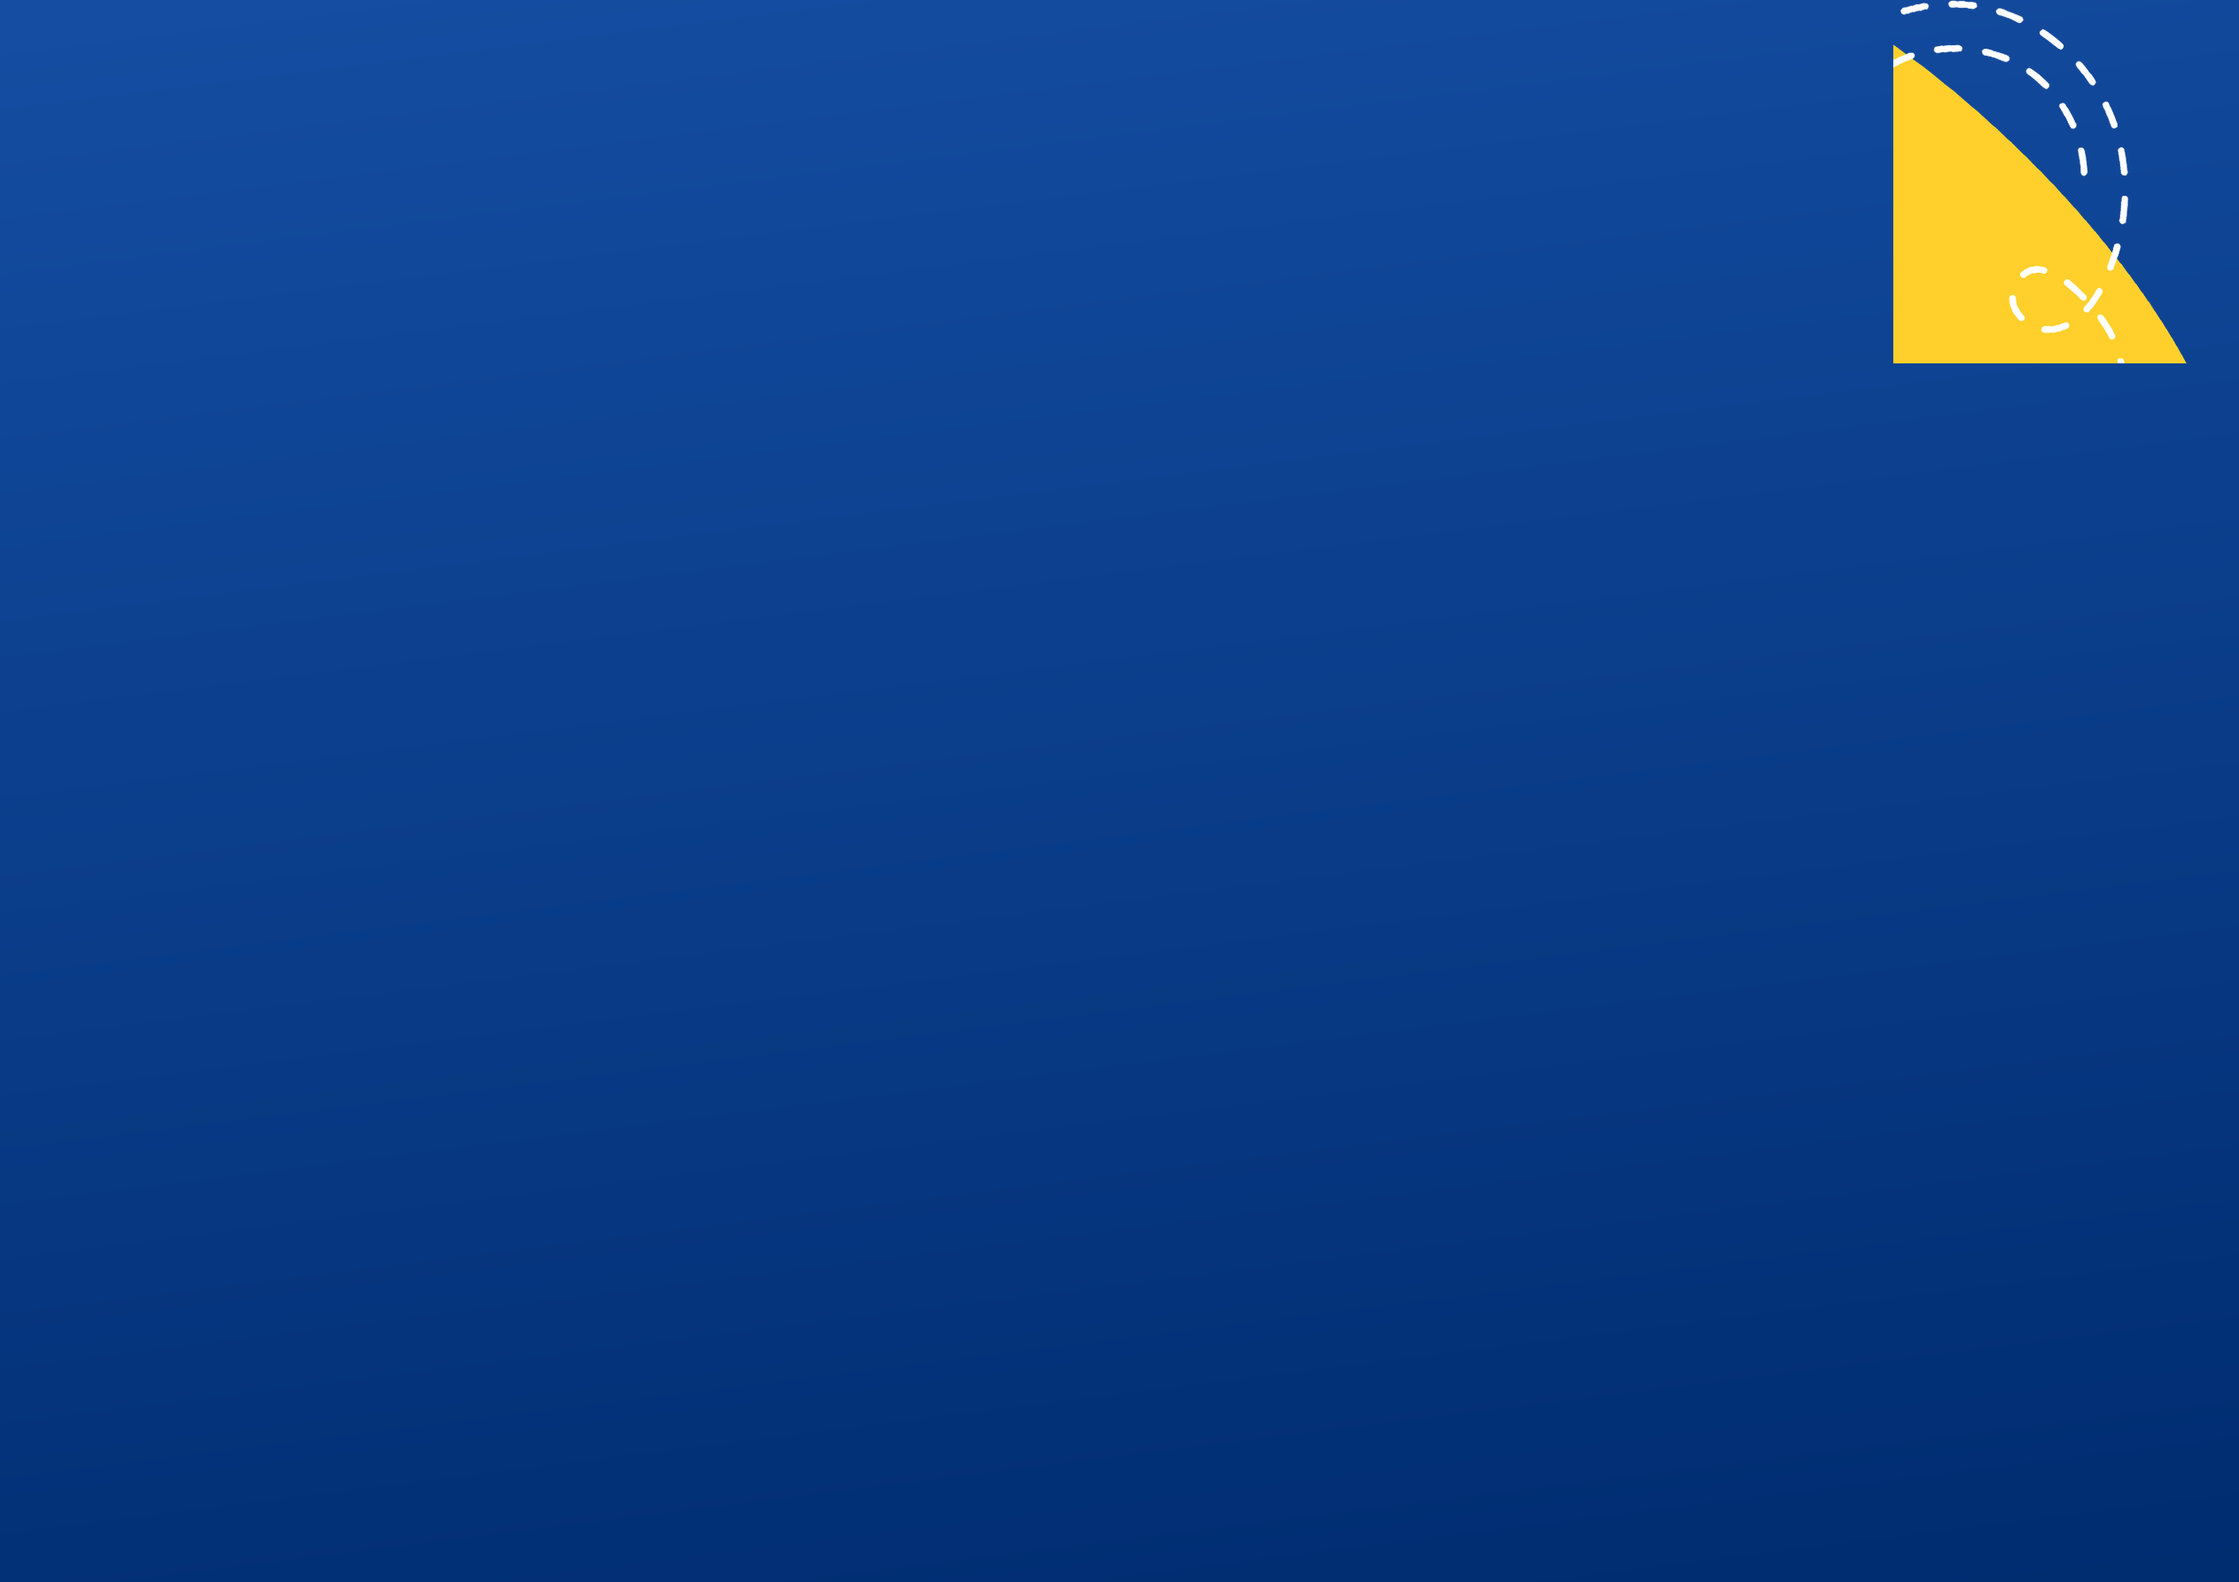
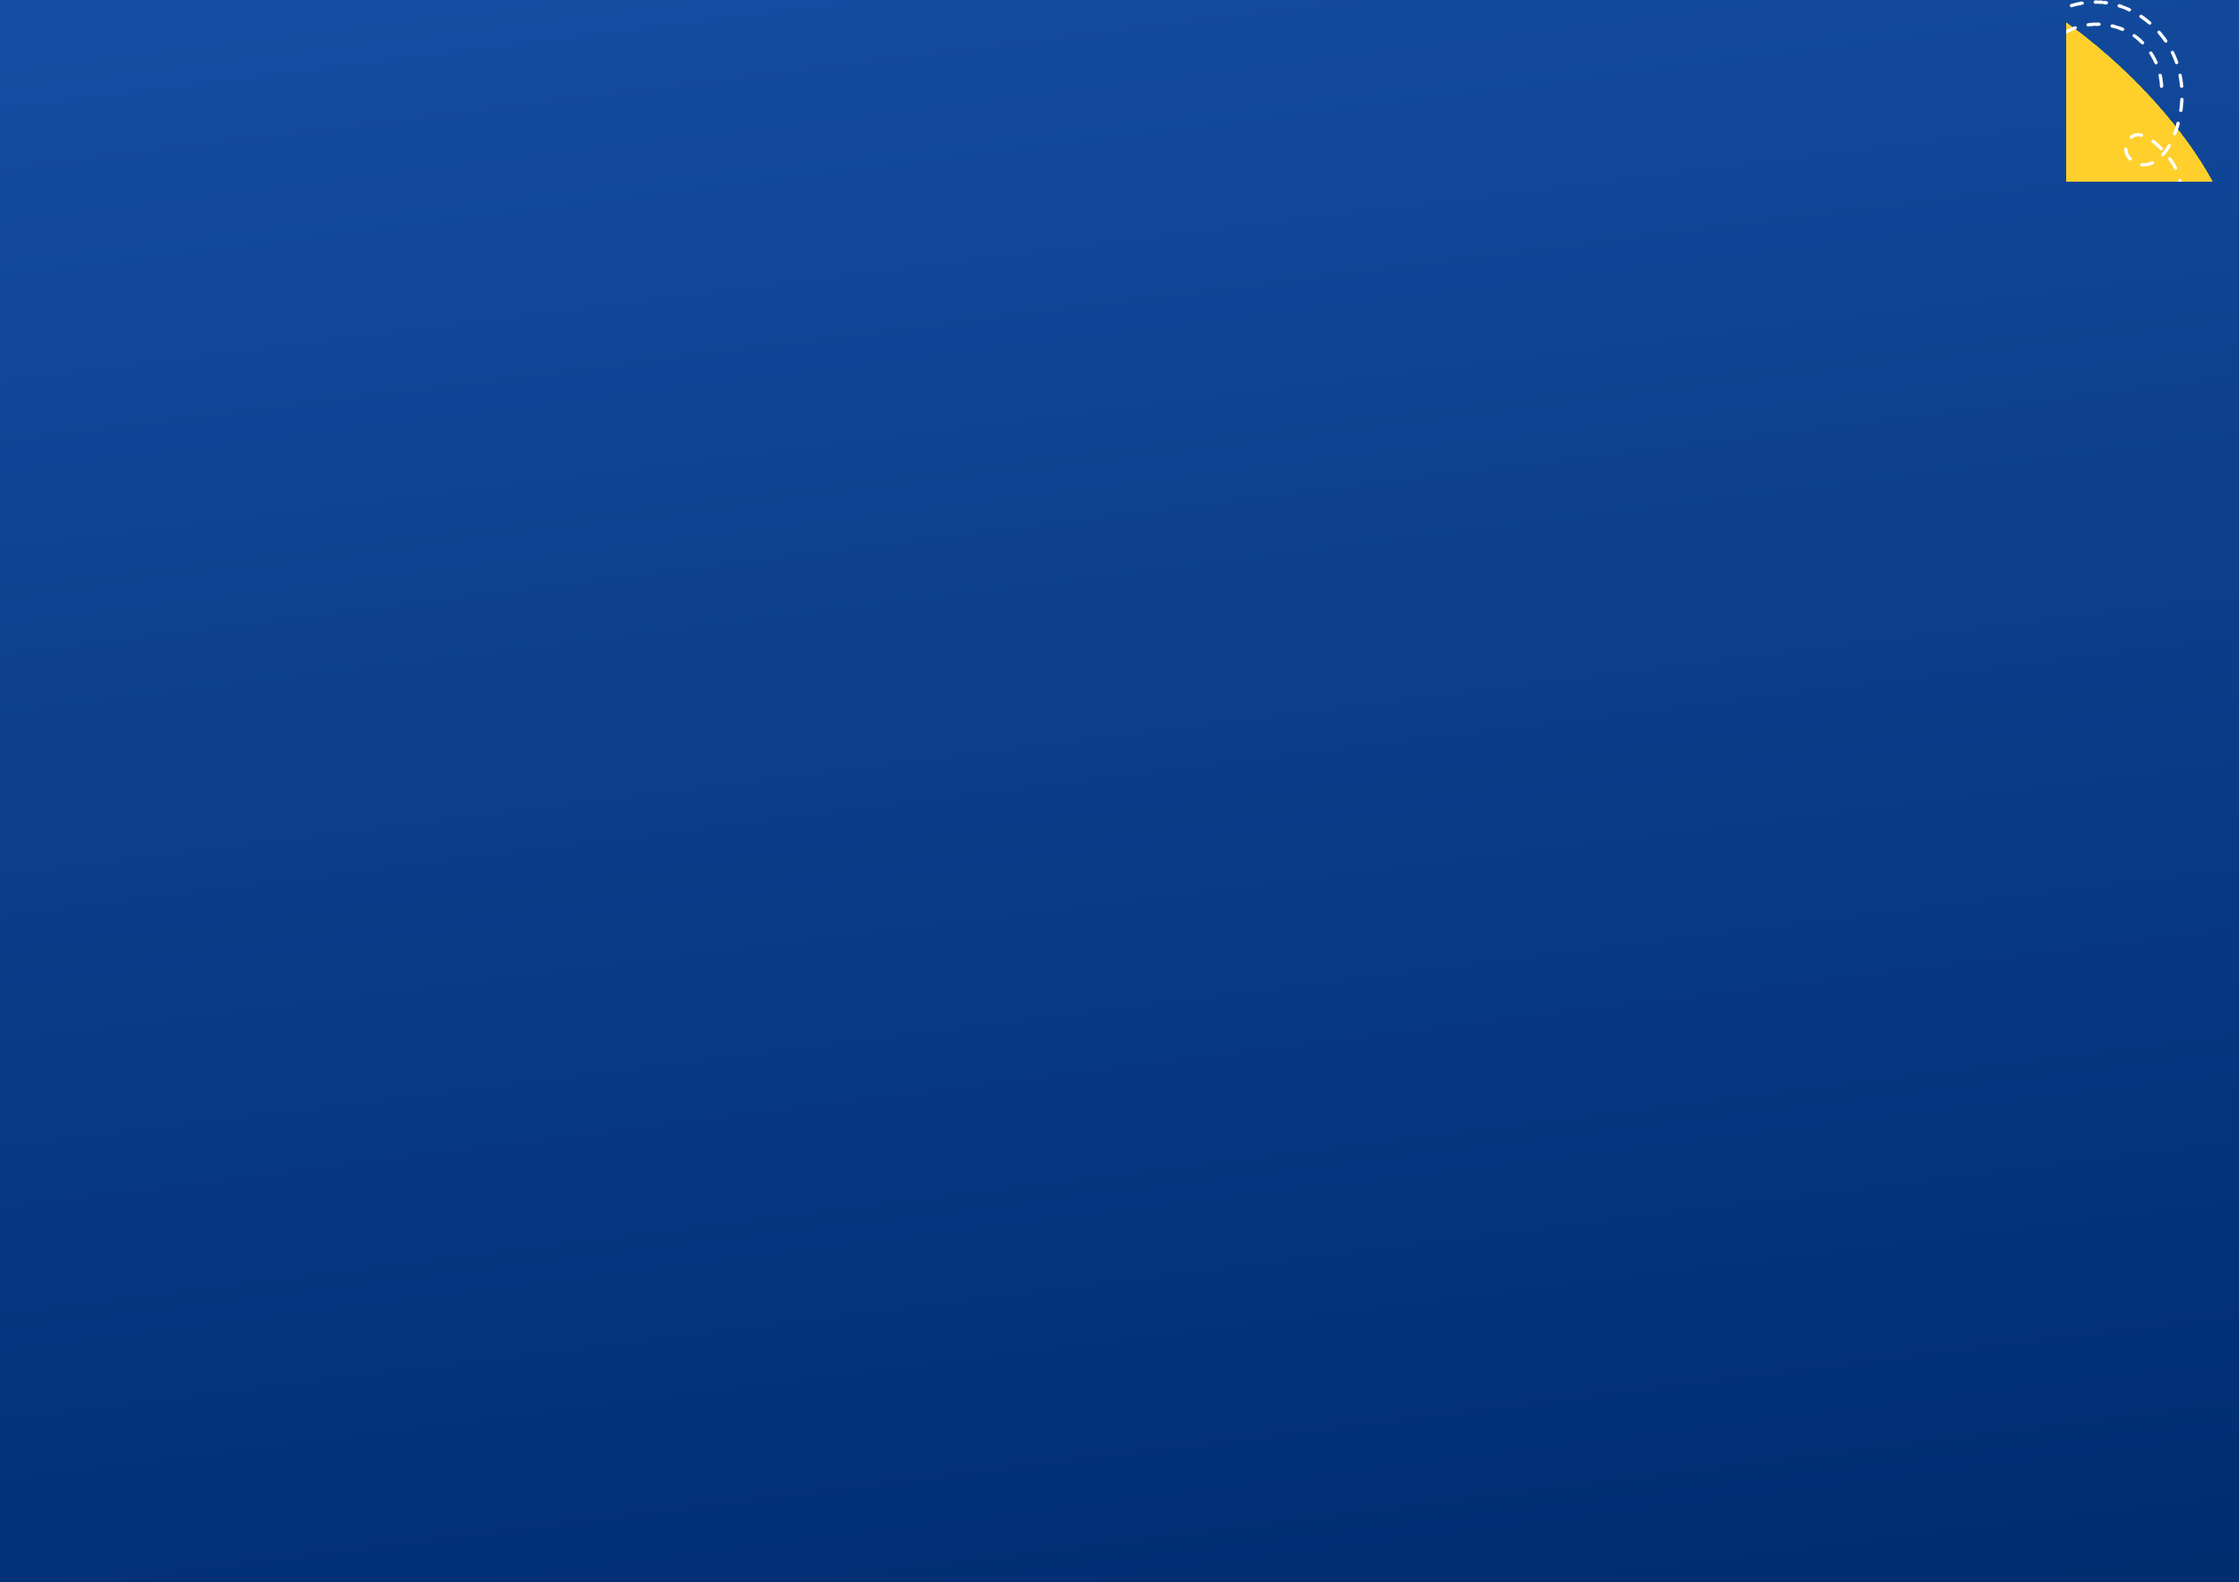
Corrige emenda branca na borda + Cardápio volta a caber 1 página por público
Dois achados reais, testando os próprios PDFs em alta resolução e com
conteúdo denso de verdade (mandado pelo dono):

1) Emenda branca de ~1pt na borda direita do calendário E do cardápio —
   a imagem de fundo desenhada do tamanho exato da página (0,0 até
   PAGE_W,PAGE_H) não fechava 100% até a borda por arredondamento da matriz
   de transformação, deixando a página branca por baixo aparecer numa
   frestinha. Só aparecia em alta resolução (150dpi não mostrava, 300dpi
   sim) — por isso passou batido antes. Corrigido com 1pt de sangria pra
   cada lado nos dois geradores.

2) Cardápio com conteúdo cheio (Almoço/Lanche com várias linhas) voltou a
   quebrar em mais de 1 página por público — o cabeçalho grande estilo
   pôster (igual ao calendário) deixava menos altura pra tabela do que o
   formato antigo tinha. Cabeçalho, rodapé e decoração do fundo (nova versão
   do PNG, mais compacta) enxutos; fonte da tabela e altura de linha um
   pouco menores; label+horário da refeição passam a ficar lado a lado
   (eram 2 linhas empilhadas, sempre reservando essa altura mesmo pra
   refeição de 1 item só, tipo "Fruta da estação" — a maioria dos casos
   reais). Testado com o conteúdo denso do PDF real que o dono mandou
   (Maternal e Pré-escola, Agosto/2026): volta a caber numa página só.

Claude-Session: https://claude.ai/code/session_01CfbiiugnyVJt9YQ2kULm1F

Changed region(s): [[0.8337, 0.0, 0.9881, 0.2465]]

diff --git a/lib/gerarCardapioPdf.ts b/lib/gerarCardapioPdf.ts
@@ -33,12 +33,18 @@ const HEADER_BLUE = rgb(0x29 / 255, 0xab / 255, 0xe2 / 255);
 const CARD_RADIUS = 10;
 const PAD_CARD = 14; // respiro entre a borda do cartão branco e o conteúdo
 
-const LABEL_COL_W = 108;
-const LINE_H = 9.5;
-const FONT_SIZE = 8.5;
-const PAD_X = 5;
-const PAD_Y = 4;
-const HEAD_ROW_H = 25;
+// Medidas apertadas de propósito (igual antes do redesenho): o pedido é
+// caber os 2 padrões de semana (1&3 e 2&4) de um público inteiro numa
+// página só — cada pt economizado aqui é o que decide isso. FONT_SIZE
+// menor que antes (8→8.5) reduz quantas células quebram linha sozinhas
+// dentro da coluna estreita, que é o que mais come espaço vertical com
+// cardápio de verdade (achado real testando com conteúdo denso).
+const LABEL_COL_W = 104;
+const LINE_H = 8.8;
+const FONT_SIZE = 8;
+const PAD_X = 4;
+const PAD_Y = 3;
+const HEAD_ROW_H = 22;
 
 const DIA_LABEL_PDF: Record<string, string> = {
   SEGUNDA: "Segunda",
@@ -174,32 +180,45 @@ export async function gerarCardapioPdf({
   let pagina!: PDFPage;
   let y = 0;
 
-  // A decoração amarela do fundo desce até ~137pt do topo — o cartão
-  // branco precisa começar ABAIXO disso (com folga), senão a borda
-  // arredondada do cartão deixa um pedaço triangular da decoração visível
-  // por baixo dele perto do canto (achado real testando o próprio PDF).
-  const CARD_TOPO = PAGE_H - 148;
-  const CARD_BASE = 76; // espaço reservado pro rodapé (ilustração + logo + crédito)
+  // O cardápio precisa de MUITO mais altura de tabela que o calendário (é
+  // conteúdo real denso — Almoço/Lanche chegam a 5-6 linhas por dia), então
+  // o cabeçalho/rodapé aqui são mais enxutos que os do pôster do calendário
+  // (achado real, set/2026: com o cabeçalho grande igual ao calendário, um
+  // público com cardápio cheio não cabia mais numa página só como antes).
+  // A decoração amarela do fundo (cardapio-fundo-completo.png, versão MENOR
+  // que a do calendário) desce até ~89pt do topo — o cartão branco começa
+  // depois disso com uma folga pequena, senão a borda arredondada do cartão
+  // deixa um pedaço triangular da decoração visível por baixo dele perto do
+  // canto (mesmo achado real de antes, só que agora com a decoração menor).
+  const CARD_TOPO = PAGE_H - 82;
+  const CARD_BASE = 54; // espaço reservado pro rodapé (ilustração + logo + crédito)
   const CARD_ALTURA = CARD_TOPO - CARD_BASE;
   const CARD_X = MARGIN;
   const CARD_W = PAGE_W - MARGIN * 2;
 
+  // Bug real (mesmo do calendário): imagem do tamanho exato da página deixa
+  // uma emenda branca de ~1pt na borda (a página por baixo é branca) —
+  // sangria de 1pt em cada lado evita.
+  const SANGRIA = 1;
+
   function desenharCabecalho(tituloPublico: string) {
     if (fundoCompleto) {
-      pagina.drawImage(fundoCompleto, { x: 0, y: 0, width: PAGE_W, height: PAGE_H });
+      pagina.drawImage(fundoCompleto, { x: -SANGRIA, y: -SANGRIA, width: PAGE_W + SANGRIA * 2, height: PAGE_H + SANGRIA * 2 });
     } else {
       pagina.drawRectangle({ x: 0, y: 0, width: PAGE_W, height: PAGE_H, color: NAVY });
     }
 
     // fonteTitulo (Poppins Bold) — mesma fonte de verdade do pôster
-    // original, igual ao calendário; não fonteBold (Helvetica).
+    // original, igual ao calendário; não fonteBold (Helvetica). Tamanho
+    // menor que no calendário (20 vs 40) — cabeçalho bem mais enxuto, pra
+    // sobrar altura pra tabela.
     const titulo = "CARDÁPIO";
-    const tituloTam = 28;
-    pagina.drawText(titulo, { x: MARGIN, y: PAGE_H - 42, size: tituloTam, font: fonteTitulo, color: YELLOW });
+    const tituloTam = 20;
+    pagina.drawText(titulo, { x: MARGIN, y: PAGE_H - 26, size: tituloTam, font: fonteTitulo, color: YELLOW });
     const subtitulo = `${mesLabel} ${ano} · ${tituloPublico}`;
-    pagina.drawText(subtitulo, { x: MARGIN, y: PAGE_H - 62, size: 13, font: fonteTitulo, color: WHITE });
+    pagina.drawText(subtitulo, { x: MARGIN, y: PAGE_H - 39, size: 10, font: fonteTitulo, color: WHITE });
     const geradoTexto = `Gerado em ${geradoEm}`;
-    pagina.drawText(geradoTexto, { x: MARGIN, y: PAGE_H - 78, size: 8, font: fonte, color: rgb(0.75, 0.8, 0.9) });
+    pagina.drawText(geradoTexto, { x: MARGIN, y: PAGE_H - 49, size: 7, font: fonte, color: rgb(0.75, 0.8, 0.9) });
 
     // Cartão branco arredondado — todo o conteúdo (tabela) desenha em cima
     // dele; altura fixa por página, igual à referência do calendário.
@@ -212,14 +231,14 @@ export async function gerarCardapioPdf({
   // estação) — no rodapé, ao lado da ilustração/logo, sobre o fundo navy.
   function desenharRodape(paginaLocal: PDFPage) {
     if (decoracaoRodape) {
-      const larguraAlvo = 68;
+      const larguraAlvo = 46;
       const alturaAlvo = (decoracaoRodape.height / decoracaoRodape.width) * larguraAlvo;
-      paginaLocal.drawImage(decoracaoRodape, { x: -8, y: -10, width: larguraAlvo, height: alturaAlvo });
+      paginaLocal.drawImage(decoracaoRodape, { x: -6, y: -8, width: larguraAlvo, height: alturaAlvo });
     }
     if (logo) {
-      const larguraAlvo = 82;
+      const larguraAlvo = 58;
       const alturaAlvo = (logo.height / logo.width) * larguraAlvo;
-      paginaLocal.drawImage(logo, { x: (PAGE_W - larguraAlvo) / 2, y: 16, width: larguraAlvo, height: alturaAlvo });
+      paginaLocal.drawImage(logo, { x: (PAGE_W - larguraAlvo) / 2, y: 8, width: larguraAlvo, height: alturaAlvo });
     }
     // Faixa própria ACIMA da ilustração/logo (não ao lado) — as observações
     // são frases completas, longas demais pra uma coluna estreita ao lado da
@@ -228,12 +247,12 @@ export async function gerarCardapioPdf({
     // largura inteira da página disponível.
     const credito = `Nutricionista: ${NUTRICIONISTA_CARDAPIO.nome} · ${NUTRICIONISTA_CARDAPIO.registro}`;
     const linhas = [credito, NUTRICIONISTA_CARDAPIO.observacoes[0], NUTRICIONISTA_CARDAPIO.observacoes[1]];
-    const tamanhos = [7.5, 6.5, 6.5];
+    const tamanhos = [7, 6, 6];
     const fontes = [fonteBold, fonte, fonte];
-    let yCredito = 68;
+    let yCredito = 46;
     linhas.forEach((linha, i) => {
-      paginaLocal.drawText(linha, { x: 96, y: yCredito, size: tamanhos[i], font: fontes[i], color: rgb(0.75, 0.8, 0.92) });
-      yCredito -= 10;
+      paginaLocal.drawText(linha, { x: 68, y: yCredito, size: tamanhos[i], font: fontes[i], color: rgb(0.75, 0.8, 0.92) });
+      yCredito -= 8.5;
     });
   }
 
@@ -249,14 +268,14 @@ export async function gerarCardapioPdf({
   function desenharCabecalhoTabela(dias: DiaCardapio[]) {
     const x0 = CARD_X + PAD_CARD;
     pagina.drawRectangle({ x: x0, y: y - HEAD_ROW_H, width: CARD_W - PAD_CARD * 2, height: HEAD_ROW_H, color: HEADER_BLUE });
-    pagina.drawText("REFEIÇÃO", { x: x0 + PAD_X, y: y - HEAD_ROW_H / 2 - 3, size: 7.5, font: fonteBold, color: WHITE });
+    pagina.drawText("REFEIÇÃO", { x: x0 + PAD_X, y: y - HEAD_ROW_H / 2 - 2.5, size: 7, font: fonteBold, color: WHITE });
     let x = x0 + LABEL_COL_W;
     for (const dia of dias) {
-      // As duas linhas (dia + datas) precisam de ~10pt de distância entre as
-      // bases pra não sobrepor — data no mesmo tamanho do dia, bem legível.
-      pagina.drawText((DIA_LABEL_PDF[dia.dia] ?? dia.dia).toUpperCase(), { x: x + PAD_X, y: y - 10, size: 8, font: fonteBold, color: WHITE });
+      // As duas linhas (dia + datas) precisam de ~9pt de distância entre as
+      // bases pra não sobrepor — data um pouco menor que o dia, ainda legível.
+      pagina.drawText((DIA_LABEL_PDF[dia.dia] ?? dia.dia).toUpperCase(), { x: x + PAD_X, y: y - 9, size: 7.5, font: fonteBold, color: WHITE });
       if (dia.datas.length > 0) {
-        pagina.drawText(dia.datas.join(" · "), { x: x + PAD_X, y: y - 20, size: 8, font: fonte, color: rgb(0.9, 0.95, 1) });
+        pagina.drawText(dia.datas.join(" · "), { x: x + PAD_X, y: y - 18, size: 7, font: fonte, color: rgb(0.9, 0.95, 1) });
       }
       x += colW;
     }
@@ -289,7 +308,12 @@ export async function gerarCardapioPdf({
         const ref = dia.refeicoes.find((r) => r.tipo === refBase.tipo);
         return quebrarLinhas(fonte, ref?.itens || "—", FONT_SIZE, colW - PAD_X * 2);
       });
-      const maxLinhas = Math.max(2, ...linhasPorDia.map((l) => l.length));
+      // 1 linha mínima, não 2: label + horário ficam lado a lado na mesma
+      // linha agora (não mais empilhados) — a maioria das refeições reais
+      // (lanche da manhã, lanche da tarde 1) é só "Fruta da estação" numa
+      // linha só, e forçar 2 linhas de altura pra essas desperdiçava um
+      // bocado de espaço que faz falta com cardápio cheio.
+      const maxLinhas = Math.max(1, ...linhasPorDia.map((l) => l.length));
       const alturaLinha = maxLinhas * LINE_H + PAD_Y * 2;
 
       if (y - alturaLinha < CARD_BASE + PAD_CARD) {
@@ -300,9 +324,17 @@ export async function gerarCardapioPdf({
       pagina.drawRectangle({ x: x0, y: y - alturaLinha, width: CARD_W - PAD_CARD * 2, height: alturaLinha, color: misturarComBranco(corHex, 0.06) });
       pagina.drawRectangle({ x: x0, y: y - alturaLinha, width: 2.5, height: alturaLinha, color: corSolida(corHex) });
 
-      pagina.drawText(linhaUnica(refBase.label), { x: x0 + PAD_X + 4, y: y - PAD_Y - 8, size: 8.5, font: fonteBold, color: BLACK });
+      const labelTexto = linhaUnica(refBase.label);
+      pagina.drawText(labelTexto, { x: x0 + PAD_X + 4, y: y - PAD_Y - 7, size: 8, font: fonteBold, color: BLACK });
       if (refBase.horario) {
-        pagina.drawText(linhaUnica(refBase.horario), { x: x0 + PAD_X + 4, y: y - PAD_Y - 8 - LINE_H, size: 7, font: fonte, color: TEXT2 });
+        const labelLargura = fonteBold.widthOfTextAtSize(labelTexto, 8);
+        pagina.drawText(`· ${linhaUnica(refBase.horario)}`, {
+          x: x0 + PAD_X + 4 + labelLargura + 3,
+          y: y - PAD_Y - 7,
+          size: 7,
+          font: fonte,
+          color: TEXT2,
+        });
       }
 
       let x = x0 + LABEL_COL_W;

diff --git a/lib/gerarCalendarioPdf.ts b/lib/gerarCalendarioPdf.ts
@@ -425,8 +425,15 @@ function desenharPagina(
   // não só do visualizador). Fundir as duas imagens ANTES de embutir no PDF
   // evita o bug inteiro: só sobra UMA imagem opaca (sem canal alfa), desenhada
   // sem deslocamento nenhum de transparência em runtime.
+  // Bug real (set/2026, achado testando o PDF em alta resolução): a imagem
+  // desenhada exatamente do tamanho da página deixava uma emenda branca de
+  // ~1pt na borda direita (a página do PDF por baixo é branca; arredondamento
+  // na matriz de transformação da imagem não fechava 100% até a borda).
+  // Sangria de 1pt pra cada lado resolve — a imagem passa um pouco da borda
+  // da página (que corta o excesso), então nunca sobra branco visível.
+  const SANGRIA = 1;
   if (fundoCompleto) {
-    pagina.drawImage(fundoCompleto, { x: 0, y: 0, width: PAGE_W, height: PAGE_H });
+    pagina.drawImage(fundoCompleto, { x: -SANGRIA, y: -SANGRIA, width: PAGE_W + SANGRIA * 2, height: PAGE_H + SANGRIA * 2 });
   } else {
     pagina.drawRectangle({ x: 0, y: 0, width: PAGE_W, height: PAGE_H, color: NAVY });
   }
